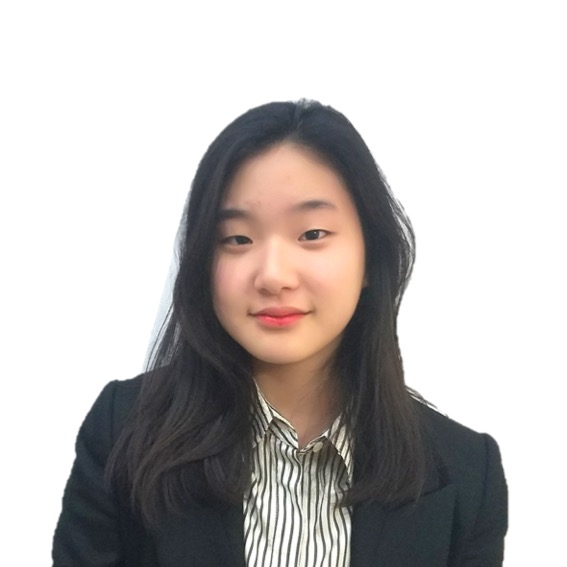
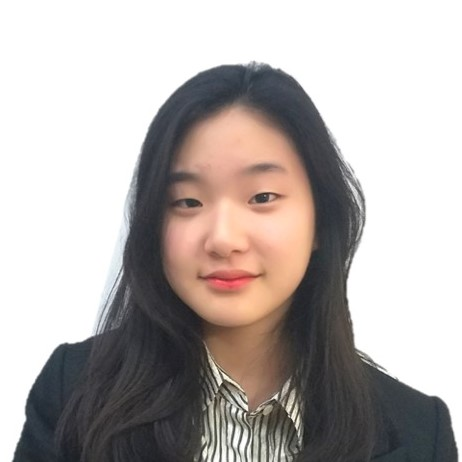
Tweaks done on the photos
Heather photo background erased, toned up face to a lighter/cooler shade.

diff --git a/HRC.html b/HRC.html
@@ -116,7 +116,7 @@
         <div class="row" style="margin-right:0;">
             <div class="col-md-4">
                 <div class="container-com">
-                    <img src="img/Heather Leung.jpeg" alt="" class="image">
+                    <img src="img/Heather Leung.jpg" alt="" class="image">
                     <div class="overlay">
                         <div class="text-com">Heather Leung</div>
                     </div>
